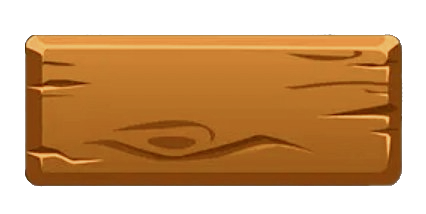
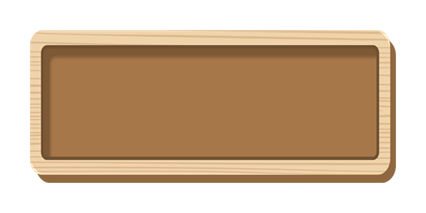
Commit

diff --git a/gui/interface.py b/gui/interface.py
@@ -9,7 +9,7 @@ N = 15
 MARGIN = 23
 GRID = (SIZE - 2 * MARGIN) / (N-1)
 
-FPS = 60
+FPS = 30
 
 class GameUI(object):
     def __init__(self, ai):
@@ -22,10 +22,10 @@ class GameUI(object):
         self.screen = pygame.display.set_mode((SIZE, SIZE))
         pygame.display.set_caption('Chơi Caro XO!')
 
-        self.board = pygame.image.load(os.path.join("assets", 'board.jpg')).convert()
+        self.board = pygame.image.load(os.path.join("assets", 'board.png')).convert()
         self.blackPiece = pygame.image.load(os.path.join("assets", 'black_piece.png')).convert_alpha()
         self.whitePiece = pygame.image.load(os.path.join("assets", 'white_piece.png')).convert_alpha()
-        self.menuBoard = pygame.image.load(os.path.join("assets", "menu_board.png")).convert_alpha()
+        self.menuBoard = pygame.image.load(os.path.join("assets", "menu_board2.png")).convert_alpha()
         self.buttonSurf = pygame.image.load(os.path.join("assets", "button.png")).convert_alpha()
         self.buttonSurf = pygame.transform.scale(self.buttonSurf, (110, 60)) 
         self.screen.blit(self.board, (0,0))
